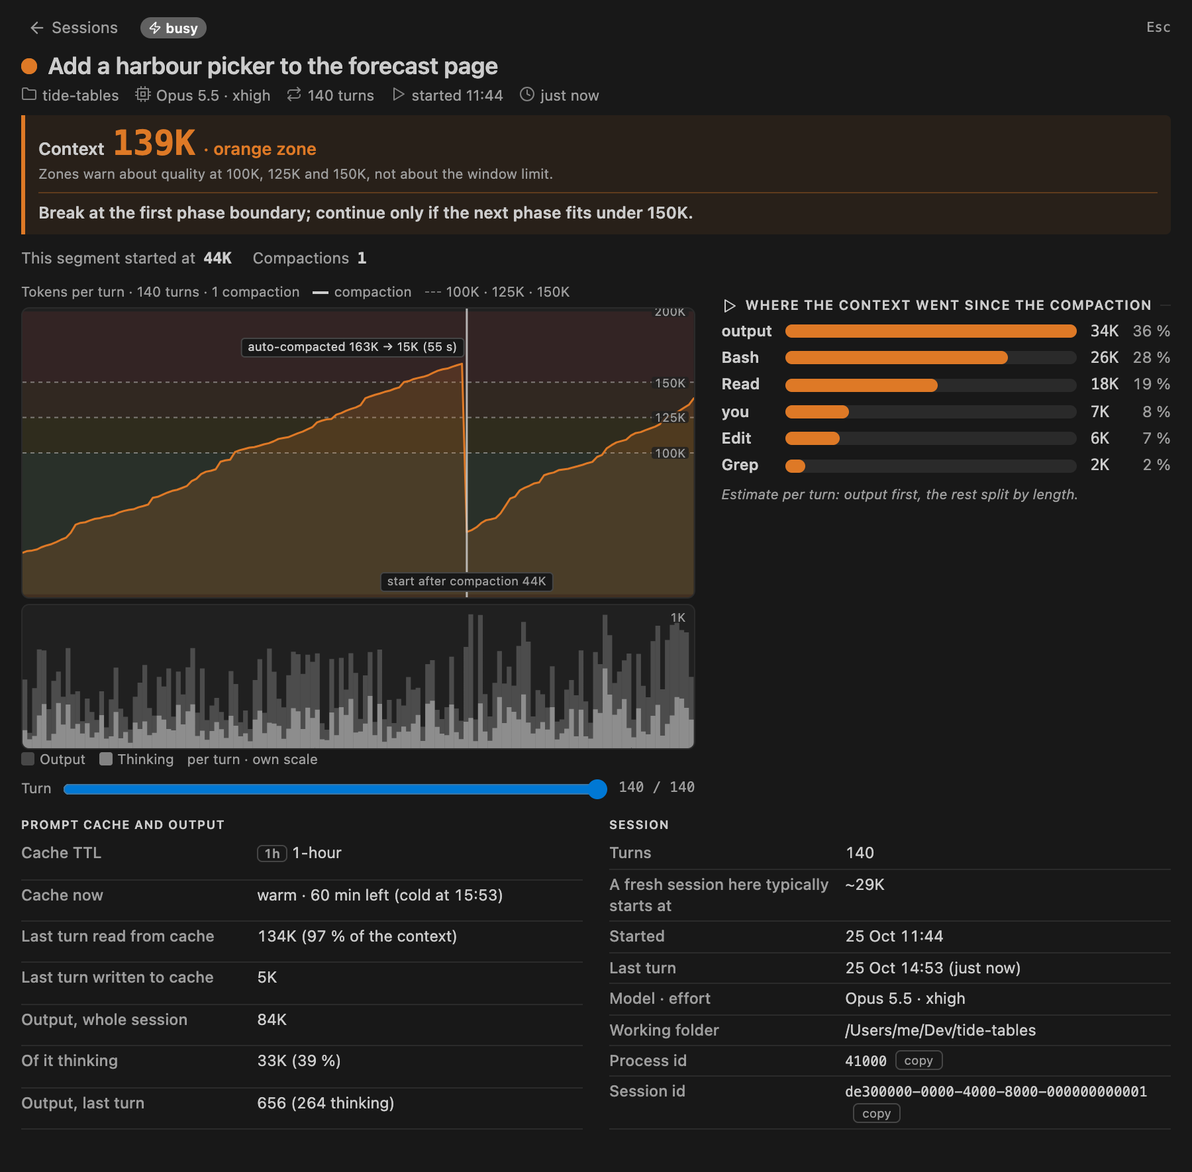
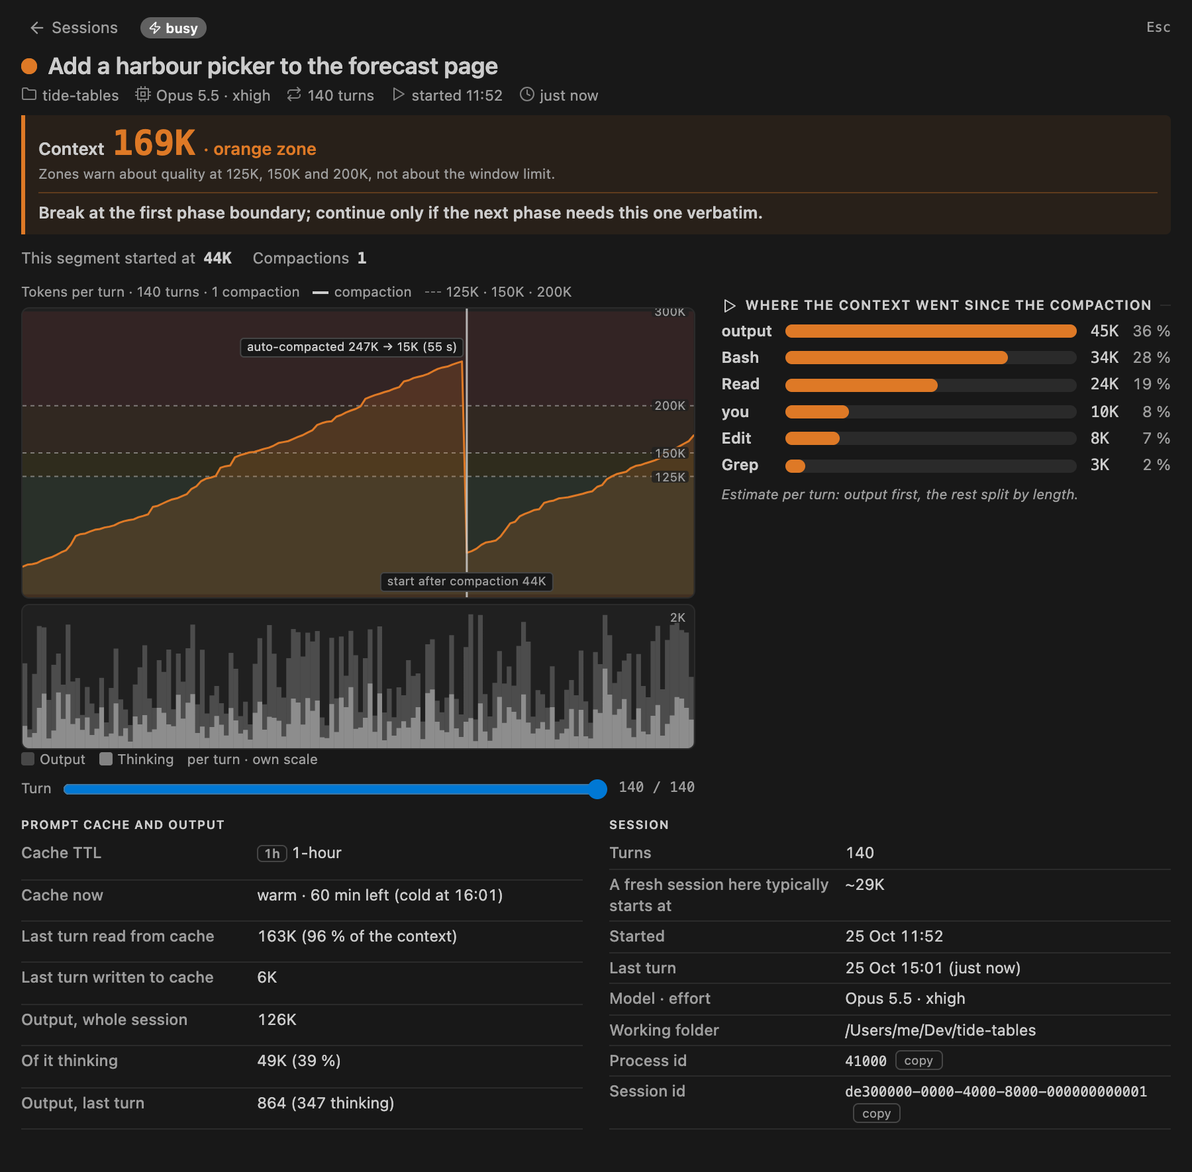
#58 The zones move a step up to green below 125K and red above 200K, on a 0–300K scale
The limits follow Matt Pocock's newer figures, checked against his primary sources on 2026-10-25: yellow is his
dictionary's 125K–150K band where the dumb zone commonly begins, orange starts where his smart zone (~150K in the
skills repo) is spent, and red above 200K is the panel's own line, since he gives no figure for how deep the dumb
zone goes. core.cjs names each source by its constant. Orange's advice no longer says "fits under 150K", which
cannot hold once orange starts there; it keeps his first question: continue only if the next phase needs this one
verbatim.

panel.html runs the row bar, the header's strip, the sparkline and the detail curve 0–300K, so the red band is on
the strip and few sessions run off the bar. The demo's sessions move so the workspace still shows all four zones
(one red, one orange after a compaction), the README images are retaken, and the README gives the new limits, the
scale and its examples. Tests whose counts were picked for a zone under the old limits get counts in the same
zone under the new ones; a new panel test checks the bar's marks and that only a count above 300K is hatched.

Version 0.24.0.

diff --git a/test/core.test.js b/test/core.test.js
@@ -358,14 +358,14 @@ describe("dips", () => {
 });
 
 describe("zone", () => {
-  it("green below 100 000, yellow below 125 000, orange up to and including 150 000, red above, null without a number", () => {
+  it("green below 125 000, yellow below 150 000, orange up to and including 200 000, red above, null without a number", () => {
     expect(K.zone(0)).toBe("green");
-    expect(K.zone(99999)).toBe("green");
-    expect(K.zone(100000)).toBe("yellow");
-    expect(K.zone(124999)).toBe("yellow");
-    expect(K.zone(125000)).toBe("orange");
+    expect(K.zone(124999)).toBe("green");
+    expect(K.zone(125000)).toBe("yellow");
+    expect(K.zone(149999)).toBe("yellow");
     expect(K.zone(150000)).toBe("orange");
-    expect(K.zone(150001)).toBe("red");
+    expect(K.zone(200000)).toBe("orange");
+    expect(K.zone(200001)).toBe("red");
     expect(K.zone(null)).toBeNull();
     expect(K.zone(NaN)).toBeNull();
   });
@@ -534,7 +534,7 @@ describe("contextFacts", () => {
   it("advice for yellow, orange and red as a sentence; none for green or an unknown zone", () => {
     const advice = (zone) => K.contextFacts({ zone }, null).advice;
     expect(advice("yellow")).toBe("Plan to break at the next phase boundary.");
-    expect(advice("orange")).toBe("Break at the first phase boundary; continue only if the next phase fits under 150K.");
+    expect(advice("orange")).toBe("Break at the first phase boundary; continue only if the next phase needs this one verbatim.");
     expect(advice("red")).toBe("Do not start a new phase: /clear, /handoff, a subagent, or /compact.");
     expect(advice("green")).toBeNull();
     expect(advice(null)).toBeNull();
@@ -580,8 +580,8 @@ describe("buildSessions", () => {
   ];
   const H1 = 3600000, M5 = 300000;
   const transcripts = {
-    old: tail(170500, "2026-10-21T21:20:00.000Z", { cacheTtlMs: H1, cacheRead: 160000, cacheCreated: 10000 }), // 1 h 20 min ago → dimmed, red, cold
-    new: tail(143002, "2026-10-21T22:28:00.000Z", { model: "claude-fable-5-1", cacheTtlMs: H1, cacheRead: 142000, cacheCreated: 1000 }), // 12 min ago, orange, warm
+    old: tail(230500, "2026-10-21T21:20:00.000Z", { cacheTtlMs: H1, cacheRead: 220000, cacheCreated: 10000 }), // 1 h 20 min ago → dimmed, red, cold
+    new: tail(173002, "2026-10-21T22:28:00.000Z", { model: "claude-fable-5-1", cacheTtlMs: H1, cacheRead: 172000, cacheCreated: 1000 }), // 12 min ago, orange, warm
     busy: tail(20000, "2026-10-21T20:00:00.000Z", { cacheTtlMs: M5, cacheRead: 0, cacheCreated: 19000 }), // busy, although the last turn is old; cold
     other: tail(5000, "2026-10-21T22:39:30.000Z", { cacheTtlMs: M5, cacheRead: 4000, cacheCreated: 1000 }), // 30 s ago, warm for 4.5 min
     // "without" has no transcript yet
@@ -604,10 +604,10 @@ describe("buildSessions", () => {
   it("zones lists the zones in order with the limits zone() uses, their range texts and advice, frozen, also for an empty list", () => {
     const { zones } = K.buildSessions({ registry: [], now: NOW });
     expect(zones.map(({ zone, from, to, range, short }) => [zone, from, to, range, short])).toEqual([
-      ["green", 0, 100000, "below 100K", "<100K"], ["yellow", 100000, 125000, "100K–125K", "100K+"],
-      ["orange", 125000, 150000, "125K–150K", "125K+"], ["red", 150000, null, "above 150K", ">150K"],
+      ["green", 0, 125000, "below 125K", "<125K"], ["yellow", 125000, 150000, "125K–150K", "125K+"],
+      ["orange", 150000, 200000, "150K–200K", "150K+"], ["red", 200000, null, "above 200K", ">200K"],
     ]);
-    // just inside each end: orange includes 150K itself, so red starts above its `from`
+    // just inside each end: orange includes 200K itself, so red starts above its `from`
     for (const z of zones) expect([K.zone(z.from + 1), K.zone(z.to === null ? 1e7 : z.to - 1)]).toEqual([z.zone, z.zone]);
     expect(zones[0].advice).toBeNull();
     expect(zones[2].advice).toBe(K.contextFacts({ zone: "orange" }).advice);
@@ -617,7 +617,7 @@ describe("buildSessions", () => {
   it("per session: zone, short model name, time since the last turn, dimming after one hour and busy", () => {
     const r = K.buildSessions({ registry, transcripts, now: NOW, workspaceFolders: [MINE], all: false });
     const [busy, fresh, old, without] = r.sessions;
-    expect(fresh).toMatchObject({ tokens: 143002, zone: "orange", modelShort: "Fable 5.1", turns: 3,
+    expect(fresh).toMatchObject({ tokens: 173002, zone: "orange", modelShort: "Fable 5.1", turns: 3,
       sinceMs: 12 * 60000, busy: false, dimmed: false, project: "my-project", title: "T" });
     expect(old).toMatchObject({ zone: "red", dimmed: true, sinceMs: 80 * 60000, modelShort: "Opus 5.5" });
     expect(busy).toMatchObject({ busy: true, zone: "green", dimmed: true });
@@ -755,7 +755,7 @@ describe("buildSessions", () => {
   });
 
   it("every session's typical start is the list's median of the fresh starts, and its advice follows its zone", () => {
-    const at = (baseline, baselineCause) => tail(143002, NOW, { baseline, baselineAt: 0, baselineCause });
+    const at = (baseline, baselineCause) => tail(173002, NOW, { baseline, baselineAt: 0, baselineCause });
     const r = K.buildSessions({ registry, transcripts: { ...transcripts, new: at(62000, "start"), old: at(30000, "compaction"), busy: at(40000, "start") },
       now: NOW, workspaceFolders: [MINE], all: false });
     expect(r.baselineMedian).toBe(51000);
@@ -766,7 +766,7 @@ describe("buildSessions", () => {
   it("the count per zone covers the listed sessions in all four zones, unknown is not counted, and with all projects everything shown is counted", () => {
     expect(K.buildSessions({ registry, transcripts, now: NOW, workspaceFolders: [MINE], all: false }).zoneCounts).toEqual({ green: 1, yellow: 0, orange: 1, red: 1 });
     expect(K.buildSessions({ registry, transcripts, now: NOW, workspaceFolders: [MINE], all: true }).zoneCounts).toEqual({ green: 2, yellow: 0, orange: 1, red: 1 });
-    const withYellow = { ...transcripts, without: tail(110000, NOW) };
+    const withYellow = { ...transcripts, without: tail(130000, NOW) };
     expect(K.buildSessions({ registry, transcripts: withYellow, now: NOW, workspaceFolders: [MINE], all: false }).zoneCounts).toEqual({ green: 1, yellow: 1, orange: 1, red: 1 });
     expect(K.buildSessions({ registry: [], transcripts: {}, now: NOW, workspaceFolders: [MINE], all: false }).zoneCounts).toEqual({ green: 0, yellow: 0, orange: 0, red: 0 });
   });
@@ -775,8 +775,8 @@ describe("buildSessions", () => {
   it("per session: hit share of the last turn, the cold deadline from the last turn plus the TTL, the time left, and warm or cold now", () => {
     const r = K.buildSessions({ registry, transcripts, now: NOW, workspaceFolders: [MINE], all: true });
     const by = Object.fromEntries(r.sessions.map((s) => [s.sessionId, s]));
-    expect(by.new).toMatchObject({ cacheTtlMs: H1, cacheRead: 142000, cacheCreated: 1000, coldAt: "2026-10-21T23:28:00.000Z", coldInMs: 48 * 60000, cacheState: "warm" });
-    expect(by.new.hitShare).toBeCloseTo(142000 / 143002, 6);
+    expect(by.new).toMatchObject({ cacheTtlMs: H1, cacheRead: 172000, cacheCreated: 1000, coldAt: "2026-10-21T23:28:00.000Z", coldInMs: 48 * 60000, cacheState: "warm" });
+    expect(by.new.hitShare).toBeCloseTo(172000 / 173002, 6);
     expect(by.old).toMatchObject({ coldAt: "2026-10-21T22:20:00.000Z", coldInMs: -20 * 60000, cacheState: "cold" });
     expect(by.busy).toMatchObject({ cacheTtlMs: M5, coldAt: "2026-10-21T20:05:00.000Z", cacheState: "cold", hitShare: 0 });
     expect(by.other).toMatchObject({ coldInMs: 4.5 * 60000, cacheState: "warm" });

diff --git a/test/panel.test.js b/test/panel.test.js
@@ -86,8 +86,8 @@ describe("panel: the list", () => {
     const p = panel();
     expect(p.posted).toEqual([{ type: "ready" }]);
     p.send(list([
-      session("d", { tokens: 110000, ago: MIN }), session("c", { tokens: 160000, ago: 2 * MIN }),
-      session("b", { tokens: 130000, status: "waiting" }), session("a", { tokens: 50000, status: "busy" }),
+      session("d", { tokens: 140000, ago: MIN }), session("c", { tokens: 230000, ago: 2 * MIN }),
+      session("b", { tokens: 170000, status: "waiting" }), session("a", { tokens: 50000, status: "busy" }),
     ]));
     expect(p.$("count").textContent).toBe("4");
     expect(["green", "yellow", "orange", "red"].map((z) => p.$(`zone-${z}`).textContent)).toEqual(["1", "1", "1", "1"]);
@@ -123,7 +123,7 @@ describe("panel: the list", () => {
 
   it("orange and red only hides the other idle sessions, never a busy or waiting one, and reset brings them back", () => {
     const p = panel();
-    p.send(list([session("g", { tokens: 20000 }), session("o", { tokens: 130000 }), session("r", { tokens: 160000 }),
+    p.send(list([session("g", { tokens: 20000 }), session("o", { tokens: 170000 }), session("r", { tokens: 230000 }),
       session("b", { tokens: 20000, status: "busy" }), session("w", { tokens: 20000, status: "waiting" })]));
     expect(p.$("reset").hidden).toBe(true);
     p.$("filter-hot").click();
@@ -199,16 +199,17 @@ describe("panel: the list", () => {
 });
 
 describe("panel: the zone scale", () => {
-  it("draws the zones at their true widths on 0–200K with each range inside, and says what applies in each", () => {
+  it("draws the zones at their true widths on 0–300K with each range inside, and says what applies in each", () => {
     const p = panel();
     p.send(list([session("a")]));
     const bands = ["green", "yellow", "orange", "red"].map((z) => p.$(`band-${z}`));
-    expect(bands.map((b) => b.style.getPropertyValue("--w"))).toEqual(["50", "12.5", "12.5", "25"]);
-    expect(bands.map((b) => b.querySelector(".kx-zlong").textContent)).toEqual(["below 100K", "100K–125K", "125K–150K", "above 150K"]);
-    expect(bands.map((b) => b.querySelector(".kx-zshort").textContent)).toEqual(["<100K", "100K+", "125K+", ">150K"]);
-    expect(p.$("band-green").title).toBe("green zone: below 100K");
-    expect(p.$("band-yellow").title).toBe("yellow zone: 100K–125K · Plan to break at the next phase boundary.");
-    expect(p.$("band-red").title).toMatch(/^red zone: above 150K · Do not start a new phase/);
+    expect(bands.map((b) => b.style.getPropertyValue("--w"))).toEqual(["41.67", "8.33", "16.67", "33.33"]);
+    expect(bands.map((b) => b.querySelector(".kx-zlong").textContent)).toEqual(["below 125K", "125K–150K", "150K–200K", "above 200K"]);
+    expect(bands.map((b) => b.querySelector(".kx-zshort").textContent)).toEqual(["<125K", "125K+", "150K+", ">200K"]);
+    expect(p.$("band-green").title).toBe("green zone: below 125K");
+    expect(p.$("band-yellow").title).toBe("yellow zone: 125K–150K · Plan to break at the next phase boundary.");
+    expect(p.$("band-orange").title).toBe("orange zone: 150K–200K · Break at the first phase boundary; continue only if the next phase needs this one verbatim.");
+    expect(p.$("band-red").title).toMatch(/^red zone: above 200K · Do not start a new phase/);
   });
 
   it("is the same with no sessions, and one image to assistive technology, its label naming the limits", () => {
@@ -217,12 +218,12 @@ describe("panel: the zone scale", () => {
     expect(p.$$("band-green")).toHaveLength(1);
     expect(p.$("zone-scale").getAttribute("role")).toBe("img");
     expect(p.$("zone-scale").getAttribute("aria-label")).toBe(
-      "Zones on a 0–200K scale: green below 100K, yellow 100K–125K, orange 125K–150K and red above 150K");
+      "Zones on a 0–300K scale: green below 125K, yellow 125K–150K, orange 150K–200K and red above 200K");
   });
 
   it("keeps the count per zone beside the session count, for the scope", () => {
     const p = panel();
-    const mine = session("a", { tokens: 39000 }), other = session("b", { tokens: 130000, cwd: OTHER });
+    const mine = session("a", { tokens: 39000 }), other = session("b", { tokens: 170000, cwd: OTHER });
     p.send(list([mine, other], { workspaceFolders: [MINE] }));
     expect(["green", "orange"].map((z) => p.$(`zone-${z}`).textContent)).toEqual(["1", "0"]);
     p.send(list([mine, other], { workspaceFolders: [MINE], all: true }));
@@ -233,12 +234,21 @@ describe("panel: the zone scale", () => {
     const p = panel();
     const ticks = () => [...p.row("a").querySelectorAll(".kx-tick")].map((t) => t.style.getPropertyValue("--t"));
     p.send(list([session("a")]));
-    expect(ticks()).toEqual(["50", "62.5", "75"]);
+    expect(ticks()).toEqual(["41.67", "50", "66.67"]);
     const built = list([session("a")]);
-    const bounds = [[0, 80000], [80000, 120000], [120000, 160000], [160000, null]];
+    const bounds = [[0, 90000], [90000, 150000], [150000, 210000], [210000, null]];
     p.send({ ...built, zones: built.zones.map((z, i) => ({ ...z, from: bounds[i][0], to: bounds[i][1] })) });
-    expect(["green", "yellow", "orange", "red"].map((z) => p.$(`band-${z}`).style.getPropertyValue("--w"))).toEqual(["40", "20", "20", "20"]);
-    expect(ticks()).toEqual(["40", "60", "80"]);
+    expect(["green", "yellow", "orange", "red"].map((z) => p.$(`band-${z}`).style.getPropertyValue("--w"))).toEqual(["30", "20", "20", "30"]);
+    expect(ticks()).toEqual(["30", "50", "70"]);
+  });
+
+  it("runs the row bar 0–300K with marks at 125K, 150K and 200K: only a count above 300K gets the hatched end", () => {
+    const p = panel();
+    p.send(list([session("a", { tokens: 250000 }), session("b", { tokens: 300000 }), session("c", { tokens: 320000 })]));
+    const bar = (id) => p.row(id).querySelector('[data-testid="bar"]');
+    expect(bar("a").title).toMatch(/· scale 0–300K, marks at 125K, 150K and 200K/);
+    expect(["a", "b", "c"].map((id) => bar(id).querySelector(".kx-over") !== null)).toEqual([false, false, true]);
+    expect(["a", "b", "c"].map((id) => bar(id).getAttribute("aria-label"))).toEqual(["83 % of the 300K scale", "100 % of the 300K scale", "over the 300K scale"]);
   });
 
   it("before any zones, draws no limits and names none, in the rows and the detail view", () => {
@@ -258,8 +268,8 @@ describe("panel: the zone scale", () => {
     p.send(list([session("a")]));
     const built = list([session("a")]);
     p.send({ ...built, zones: [built.zones[1], built.zones[0], ...built.zones.slice(2)] });
-    p.send({ ...built, zones: built.zones.map((z, i) => (i === 3 ? { ...z, from: 250000 } : z)) });
-    expect(p.$("band-red").style.getPropertyValue("--w")).toBe("25");
+    p.send({ ...built, zones: built.zones.map((z, i) => (i === 3 ? { ...z, from: 350000 } : z)) });
+    expect(p.$("band-red").style.getPropertyValue("--w")).toBe("33.33");
   });
 
   it("builds the bands once for the same zones, so a band's tooltip survives the next list; a list without zones keeps them", () => {

diff --git a/panel.html b/panel.html
@@ -67,7 +67,7 @@
   .kx-toggle[aria-pressed="true"] { color: var(--kx-fg); background: var(--kx-row-hover); border-color: var(--kx-border-strong); }
   .kx-refresh[aria-busy="true"] svg { animation: kx-spin 0.8s linear infinite; } /* spins until the next list arrives */
   @keyframes kx-spin { to { transform: rotate(360deg); } }
-  /* The zone scale: a thick strip across the header, the row bar's 0–200K with each zone as a band at its true width
+  /* The zone scale: a thick strip across the header, the row bar's 0–300K with each zone as a band at its true width
      and its range written inside, so the limits are in view before any row. Tinted, with the text in the zone colour,
      so it reads in light and dark themes. */
   .kx-zscale { flex: 1 1 100%; display: flex; gap: 2px; height: 22px; }
@@ -194,7 +194,7 @@
   /* a title the transcript did not give: "new session" and the registry's name, muted so it is not read as a message */
   .kx-title[data-fallback], .kx-d-head h1[data-fallback] { color: var(--kx-muted); font-weight: 500; }
   .kx-zone-txt { font-size: 0.78em; line-height: 1; color: var(--kx-muted); }
-  /* the context bar: a track scaled 0–200K, the fill in the zone's fill colour, a gap at every limit */
+  /* the context bar: a track scaled 0–300K, the fill in the zone's fill colour, a gap at every limit */
   .kx-bar-col { grid-area: bar; min-width: 0; display: flex; flex-direction: column; gap: 3px; }
   .kx-bar { position: relative; height: 10px; border-radius: 5px; background: var(--kx-track); overflow: hidden; }
   .kx-fill {
@@ -543,7 +543,7 @@
   const ZONES = ["green", "yellow", "orange", "red"];
   const ZONE_NAME = Object.fromEntries(ZONES.map((z) => [z, z]));
   let LIMITS = [], ZONE_LIST = [], MARKS_TEXT = ""; // until the first list with zones: no limits drawn, no marks named
-  const SCALE = 200000;
+  const SCALE = 300000; // past red's 200K, so the red band is on the strip and few sessions run off the bar (README, Zones)
   // The prompt cache (core.cjs: cacheTtlMs, coldInMs, hitShare). The core decides warm or cold; "soon" is the
   // panel's marker for a warm cache within SOON_MS of its deadline (or half the TTL, so a 5-minute cache is
   // not "soon" from its first minute). The panel only shows the state; it never sends a turn.
@@ -601,7 +601,7 @@
     return Number.isFinite(session.coldInMs) && session.coldInMs <= soon ? "soon" : "warm";
   }
 
-  /** "100K and 150K", "100K, 125K and 150K": the limits as words for tooltips. */
+  /** "125K and 200K", "125K, 150K and 200K": the limits as words for tooltips. */
   function listText(items) {
     return items.length < 2 ? items.join("") : `${items.slice(0, -1).join(", ")} and ${items[items.length - 1]}`;
   }
@@ -1118,7 +1118,7 @@
     for (const i of dips) svg.appendChild(svgEl("line", { class: "kx-dip", "data-turn": first + i, x1: num(x(i)), x2: num(x(i)), y1: 0, y2: D_H, "vector-effect": "non-scaling-stroke" }));
     for (const c of compactions) svg.appendChild(svgEl("line", { class: "kx-compact", "data-turn": first + c.at, x1: num(x(c.at)), x2: num(x(c.at)), y1: 0, y2: D_H, "vector-effect": "non-scaling-stroke" }));
     field.appendChild(svg);
-    // the axis labels: the limits and the top of the scale; when the scale runs far above 200K the limits sit
+    // the axis labels: the limits and the top of the scale; when the scale runs far above 300K the limits sit
     // close together, so the middle one goes first and then the lowest, and they never overlap. How many fit
     // is decided for both field heights; the style shows data-axis below 620 px and data-axis-wide above
     const room = LIMITS.length ? (y(LIMITS[0]) - y(LIMITS[LIMITS.length - 1])) / D_H : 1;

diff --git a/README.md b/README.md
@@ -26,7 +26,8 @@ Dark Modern theme; the panel follows whatever theme the editor has, and in a bro
 ## Why
 
 A long session gets worse well before it hits the window limit: past a certain size the model starts to lose track
-of what is in its context. Matt Pocock calls this the dumb zone, which "commonly begins around 125K-150K tokens".
+of what is in its context. Matt Pocock calls this the dumb zone: his smart zone lasts "~150k tokens on
+state-of-the-art models", and the dumb zone "commonly begins around 125K-150K tokens".
 The panel shows every live session's token count against those marks, where the context went since the session
 started, and when its prompt cache goes cold, so you can see when it is time to break a session and which one.
 
@@ -143,7 +144,7 @@ side of the window, or right-click it → **Move To** → **Secondary Side Bar**
 
 In the sidebar the panel is a list of the sessions in this window's workspace, grouped by what they are doing:
 working now, waiting for you, idle, and idle over an hour (folded). Each row has the count in its zone colour, a
-context bar with marks at 100K, 125K and 150K, an estimate of where the context went, a sparkline of tokens per
+context bar with marks at 125K, 150K and 200K, an estimate of where the context went, a sparkline of tokens per
 turn, and the state of the prompt cache. **All projects** shows the whole machine instead, grouped by project,
 and from 620 px wide the rows spread over four columns, as in the image at the top.
 
@@ -160,10 +161,16 @@ next phase boundary, the whole curve with every compaction, where the context we
 
 ### Zones
 
-Every session is in a zone by its token count: green below 100K, yellow below 125K, orange up to 150K, red
+Every session is in a zone by its token count: green below 125K, yellow below 150K, orange up to 200K, red
 above. The zones are absolute token counts, not a share of the model's window: they follow Matt Pocock's
-smart zone and dumb zone, where the dumb zone "commonly begins around 125K-150K tokens". They warn about
-quality, not about the window limit. The header draws them, so the limits are in view before any row.
+smart zone and dumb zone as he gives them in 2026. Yellow is the band where, in his dictionary, the dumb zone
+"commonly begins around 125K-150K tokens"; orange starts where his smart zone, "~150k tokens on
+state-of-the-art models", is spent. Red above 200K is the panel's own line: he gives no figure for how deep the
+dumb zone goes, and he and the published measurements describe a gradual decline, not a cliff. The zones warn
+about quality, not about the window limit. The header draws them, so the limits are in view before any row.
+
+The bars and curves run 0–300K, past the red line, so the red band has room on the scale and few sessions run
+off the end; a count above 300K fills its bar, with a hatched end.
 
 ### Header
 
@@ -174,9 +181,9 @@ At the right end, the compact switch and the refresh button: refresh reads the r
 again from the first byte, and says "updated 12:04:31" when done. Click it when you doubt what the list shows,
 for example right after a process was ended.
 
-Across the bottom of the header, the zone scale: a strip as wide as the header that stands for 0–200K, the same
-scale as the row bars, each zone a band at its true width with its range written inside ("below 100K",
-"100K–125K" …; "<100K", "100K+" … when a band is too narrow, and no text when even that does not fit), so the
+Across the bottom of the header, the zone scale: a strip as wide as the header that stands for 0–300K, the same
+scale as the row bars, each zone a band at its true width with its range written inside ("below 125K",
+"125K–150K" …; "<125K", "125K+" … when a band is too narrow, and no text when even that does not fit), so the
 limits are in view before any row. Point at a band for what to do at the next phase boundary in that zone.
 
 ### Groups
@@ -200,7 +207,7 @@ the panel remembers which are folded.
 One row per session:
 
 - The title, and the count in the zone colour with the zone's name under it.
-- A context bar scaled 0–200K with marks at 100K, 125K and 150K; its tooltip says what to do at the next
+- A context bar scaled 0–300K with marks at 125K, 150K and 200K; its tooltip says what to do at the next
   phase boundary in the yellow, orange and red zones. Its first part, in a muted shade, is the start of the
   session: the first turn, which holds the fixed load (CLAUDE.md, memory, skill and tool listings) and the
   first message ("start 29K · conversation 87K"; after a compaction it starts again at the first turn after it).
@@ -236,10 +243,10 @@ a filter is on, and "reset" puts the view back. The view is remembered like the 
 The detail view opens in the list's place:
 
 - The title, project, model and effort, turns, start and last turn.
-- A box edged in the zone colour that says what the number is ("Context 138K · orange zone"), that the zones
-  warn about quality at 100K, 125K and 150K and not about the window limit, and, in yellow, orange and red,
+- A box edged in the zone colour that says what the number is ("Context 169K · orange zone"), that the zones
+  warn about quality at 125K, 150K and 200K and not about the window limit, and, in yellow, orange and red,
   what to do at the next phase boundary ("Break at the first phase boundary; continue only if the next phase
-  fits under 150K."). Under it the named facts: "Session started at 29K" (or "This segment started at 169K"
+  needs this one verbatim."). Under it the named facts: "Session started at 29K" (or "This segment started at 44K"
   after a compaction) and "Compactions 1" when there was one.
 - A large curve of tokens per turn over the whole session, with the four zone bands, every compaction labelled
   with its trigger and counts, and the segment's start. Under it, in a field half its height on the same
